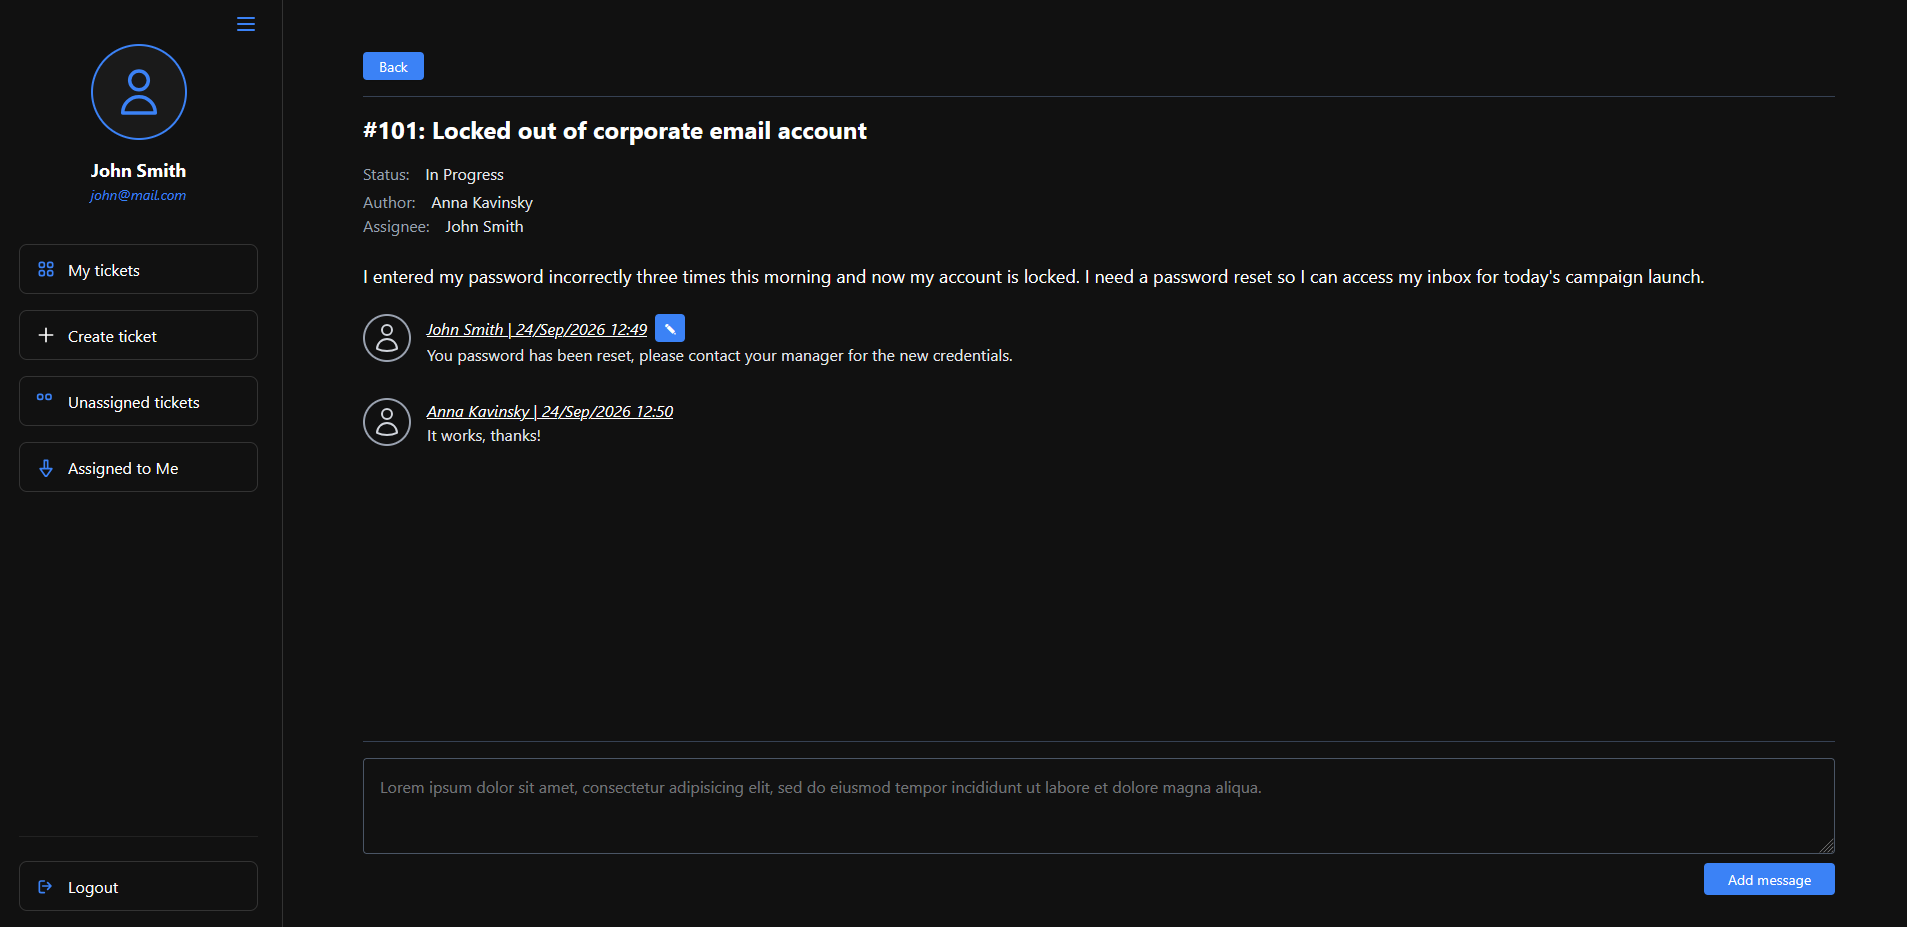
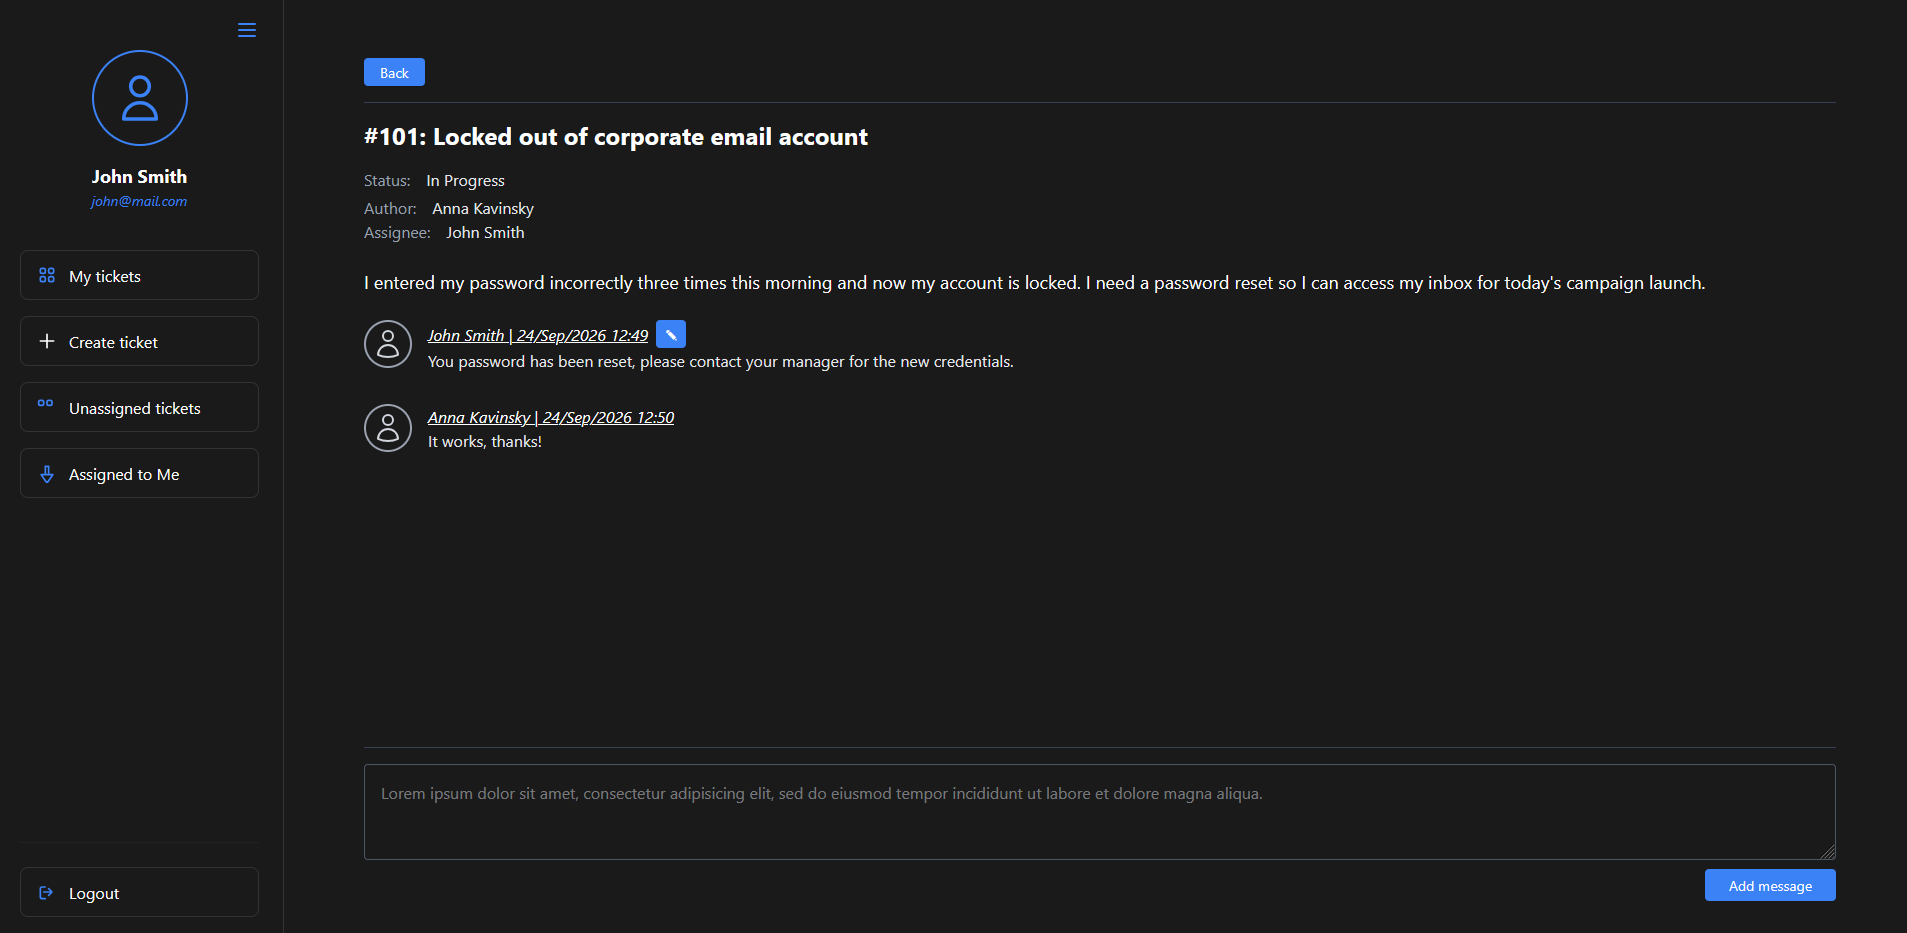
fix: use same color

diff --git a/src/main/resources/templates/ticket/fragments/ticket-list.html b/src/main/resources/templates/ticket/fragments/ticket-list.html
@@ -18,11 +18,11 @@
                            inputmode="numeric" pattern="[1-9][0-9]*"
                            th:field="*{id}"  
                            placeholder="Filter by ID"
-                           class="bg-[#111111] border border-[#333333] rounded px-3 py-2 text-sm text-gray-400 focus:outline-none focus:border-[#3b82f6] w-40">
+                           class="border border-[#333333] rounded px-3 py-2 text-sm text-gray-400 focus:outline-none focus:border-[#3b82f6] w-40">
 
                     <select id="ticket-status-filter"
                             th:field="*{status}"
-                            class="bg-[#111111] border border-[#333333] rounded px-3 py-2 text-sm text-gray-400 focus:outline-none focus:border-[#3b82f6] w-40 appearance-none">
+                            class="border border-[#333333] rounded px-3 py-2 text-sm text-gray-400 focus:outline-none focus:border-[#3b82f6] w-40 appearance-none">
                         <option value="">All</option>
                         <option th:each="status : ${statuses}" th:text="${status.name}" th:value="${status.code}"
                             th:selected="${status.code == ticketRequestFilter.status}">
@@ -32,7 +32,7 @@
                     <input type="text"
                            th:field="*{subject}" 
                            placeholder="Filter by subject"
-                           class="flex-1 bg-[#111111] border border-[#333333] rounded px-3 py-2 text-sm text-gray-400 focus:outline-none focus:border-[#3b82f6]">
+                           class="flex-1 border border-[#333333] rounded px-3 py-2 text-sm text-gray-400 focus:outline-none focus:border-[#3b82f6]">
                 </form>
             </div>
 
@@ -89,12 +89,12 @@
                         th:hx-get="@{{p}(p=${path}, page=0, sort=${page.order.property} + ',' + ${page.order.direction}, id=${ticketRequestFilter.id}, status=${ticketRequestFilter.status}, subject=${ticketRequestFilter.subject})}"
                         hx-target="#page-content" hx-swap="outerHTML" hx-trigger="click" hx-push-url="true"
                         th:if="${page.currentPage gt 0}"
-                        class="px-4 py-2 bg-[#111111] hover:bg-[#222222] text-white border-r border-[#333333]"
+                        class="px-4 py-2 hover:bg-[#222222] text-white border-r border-[#333333]"
                         title="First page">
                         &lt;&lt;
                     </button>
                     <th:block th:unless="${page.currentPage gt 0}">
-                        <span class="px-4 py-2 bg-[#111111] text-gray-600 border-r border-[#333333]">&lt;&lt;</span>
+                        <span class="px-4 py-2 text-gray-600 border-r border-[#333333]">&lt;&lt;</span>
                     </th:block>
 
                     <!-- Previous page -->
@@ -102,16 +102,16 @@
                         th:hx-get="@{{p}(p=${path}, page=${page.currentPage - 1}, sort=${page.order.property} + ',' + ${page.order.direction}, id=${ticketRequestFilter.id}, status=${ticketRequestFilter.status}, subject=${ticketRequestFilter.subject})}"
                         hx-target="#page-content" hx-swap="outerHTML" hx-trigger="click" hx-push-url="true"
                         th:if="${page.currentPage gt 0}"
-                        class="px-4 py-2 bg-[#111111] hover:bg-[#222222] text-white border-r border-[#333333]"
+                        class="px-4 py-2 hover:bg-[#222222] text-white border-r border-[#333333]"
                         title="Previous page">
                         &lt;
                     </button>
                     <th:block th:unless="${page.currentPage gt 0}">
-                        <span class="px-4 py-2 bg-[#111111] text-gray-600 border-r border-[#333333]">&lt;</span>
+                        <span class="px-4 py-2 text-gray-600 border-r border-[#333333]">&lt;</span>
                     </th:block>
 
                     <!-- Current page info -->
-                    <span class="px-4 py-2 bg-[#111111] text-gray-400 border-r border-[#333333]">
+                    <span class="px-4 py-2 text-gray-400 border-r border-[#333333]">
                         [[${page.currentPage}+1]]/[[${page.totalPages}]]
                     </span>
 
@@ -120,12 +120,12 @@
                         th:hx-get="@{{p}(p=${path}, page=${page.currentPage + 1}, sort=${page.order.property} + ',' + ${page.order.direction}, id=${ticketRequestFilter.id}, status=${ticketRequestFilter.status}, subject=${ticketRequestFilter.subject})}"
                         hx-target="#page-content" hx-swap="outerHTML" hx-trigger="click" hx-push-url="true"
                         th:if="${page.currentPage lt page.totalPages - 1}"
-                        class="px-4 py-2 bg-[#111111] hover:bg-[#222222] text-white border-r border-[#333333]"
+                        class="px-4 py-2 hover:bg-[#222222] text-white border-r border-[#333333]"
                         title="Next page">
                         &gt;
                     </button>
                     <th:block th:unless="${page.currentPage lt page.totalPages - 1}">
-                        <span class="px-4 py-2 bg-[#111111] text-gray-600">></span>
+                        <span class="px-4 py-2 text-gray-600 border-r border-[#333333]">></span>
                     </th:block>
 
                     <!-- Last page -->
@@ -133,11 +133,12 @@
                         th:hx-get="@{{p}(p=${path}, page=${page.totalPages - 1}, sort=${page.order.property} + ',' + ${page.order.direction}, id=${ticketRequestFilter.id}, status=${ticketRequestFilter.status}, subject=${ticketRequestFilter.subject})}"
                         hx-target="#page-content" hx-swap="outerHTML" hx-trigger="click" hx-push-url="true"
                         th:if="${page.currentPage lt page.totalPages - 1}"
-                        class="px-4 py-2 bg-[#111111] hover:bg-[#222222] text-white" title="Last page">
+                        class="px-4 py-2 hover:bg-[#222222] text-white border-r border-[#333333]" 
+                        title="Last page">
                         &gt;&gt;
                     </button>
                     <th:block th:unless="${page.currentPage lt page.totalPages - 1}">
-                        <span class="px-4 py-2 bg-[#111111] text-gray-600">&gt;&gt;</span>
+                        <span class="px-4 py-2 text-gray-600 border-r border-[#333333]">&gt;&gt;</span>
                     </th:block>
                 </div>
             </div>

diff --git a/src/main/resources/templates/layout.html b/src/main/resources/templates/layout.html
@@ -12,7 +12,6 @@
     <!-- <script src="https://cdn.tailwindcss.com"></script> -->
     <script th:src="@{/js/htmx.min.js}"></script>
     <style>
-        /* Custom scrollbar to match the screenshot's dark scrollbar */
         ::-webkit-scrollbar { width: 8px; }
         ::-webkit-scrollbar-track { background: #1a1a1a; }
         ::-webkit-scrollbar-thumb { background: #4b5563; border-radius: 4px; }
@@ -24,11 +23,11 @@
         document.cookie = "BRENNON_CLIENT_TIMEZONE=" + clientTimeZone + "; path=/; max-age=31536000";
     </script>
 </head>
-<body class="bg-[#111111] text-white h-screen overflow-hidden flex">
+<body class="bg-(--color-brand-bg) text-white h-screen overflow-hidden flex">
 
     <!-- Sidebar Fragment -->
     <th:block>
-        <aside class="w-72 border-r border-[#333333] flex flex-col h-full p-6 bg-[#111111] shrink-0 relative">
+        <aside class="w-72 border-r border-[#333333] flex flex-col h-full p-6 bg-(--color-brand-bg) shrink-0 relative">
             <!-- Top Right Menu Icon -->
             <div class="absolute top-6 right-6 cursor-pointer">
                 <svg class="w-6 h-6 text-[#3b82f6]" fill="none" stroke="currentColor" viewBox="0 0 24 24">
@@ -65,7 +64,7 @@
     </th:block>
 
     <!-- Main Content Wrapper Fragment -->
-    <main class="flex-1 h-full overflow-y-auto p-10 bg-[#111111] relative">
+    <main class="flex-1 h-full overflow-y-auto p-10 bg-(--color-brand-bg) relative">
         <th:block layout:fragment="content"></th:block>
     </main>
     <th:block layout:fragment="script-content"> <!--.-->
